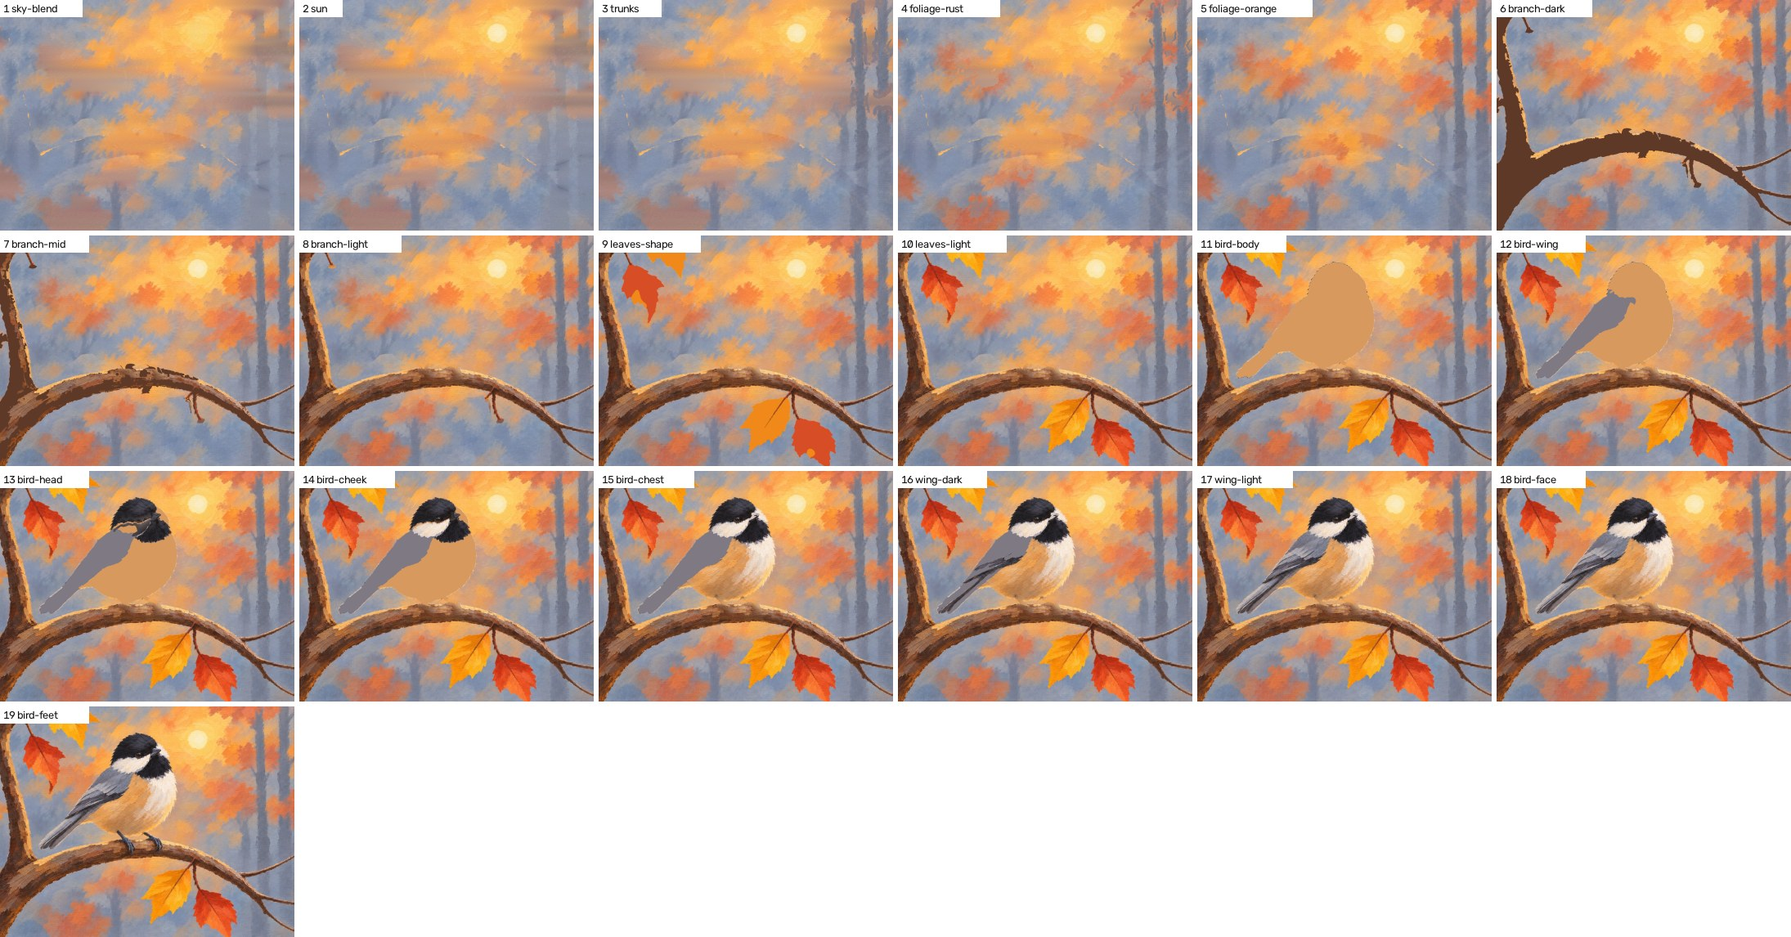
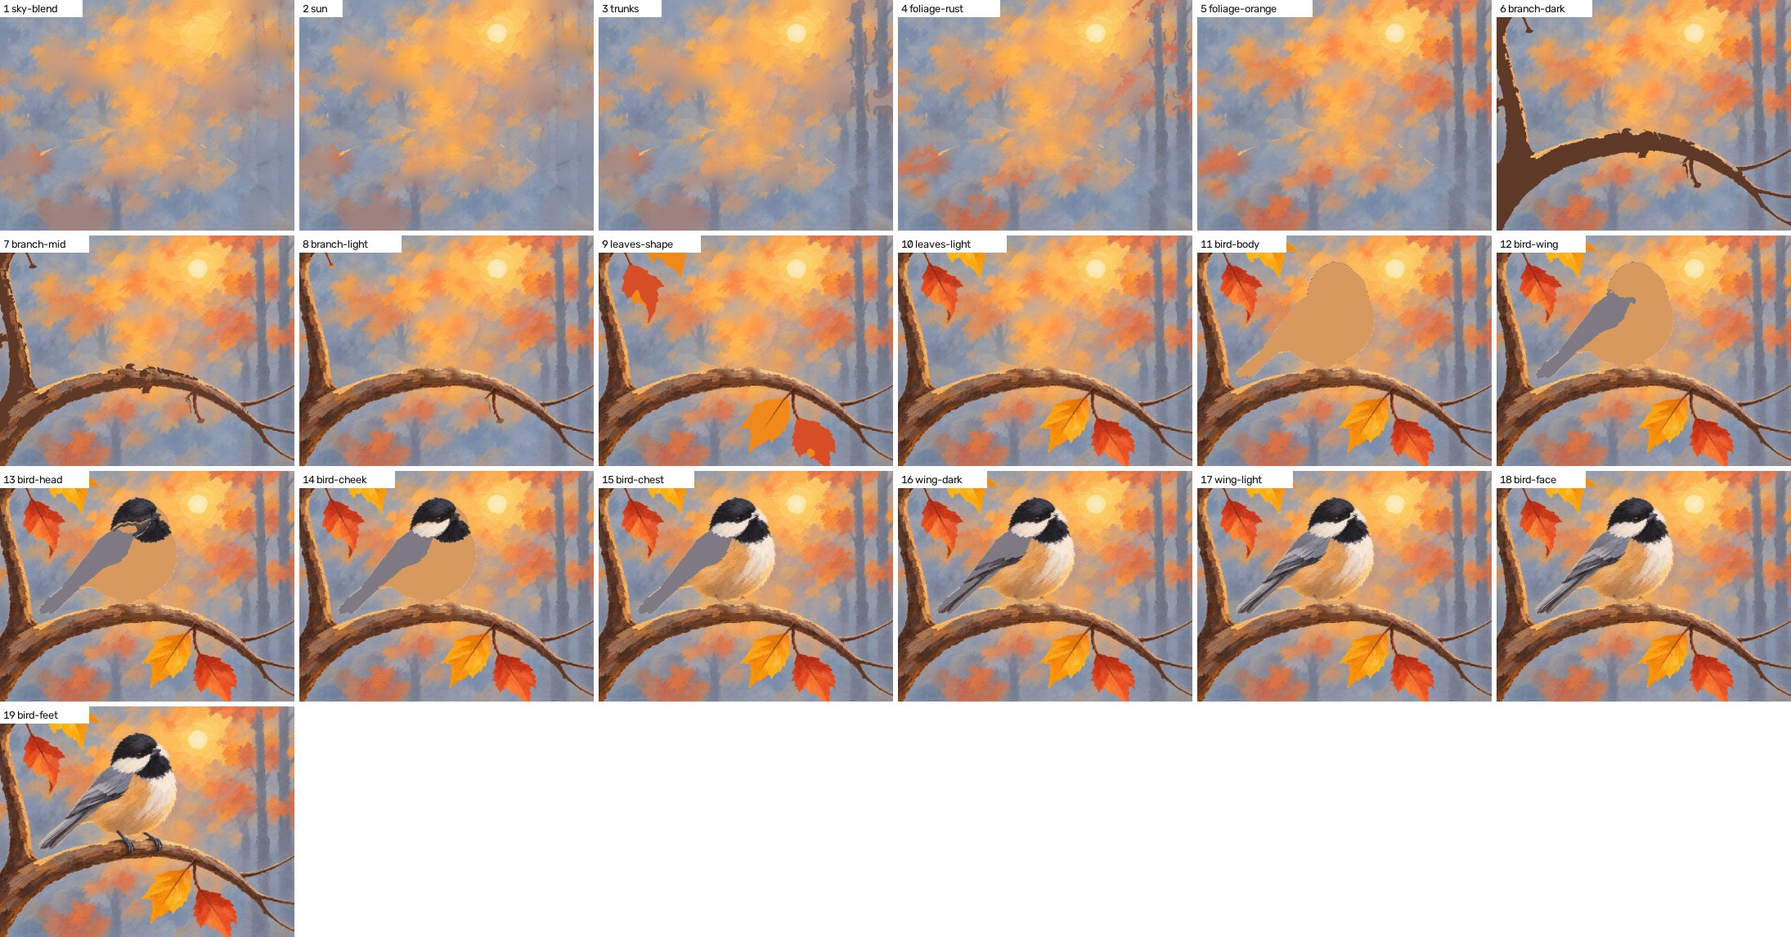
Add the background render for what's behind large objects (pipeline v2, part 2)
One low-quality render of the finish with the objects taken out. Only its
pixels behind the objects are used, so it can't move anything else. Tried
for real on the three fixtures: 2 cents and 13 seconds each, clean on the
chickadee, and no gain where objects are small, so it runs only when
build-steps asks. Carried-on paint under a part's own marks no longer shows
bars.

Refs #64

Claude-Session: https://claude.ai/code/session_017xvRi3b5oo7VFd12D7CGUX

diff --git a/spike/tools.py b/spike/tools.py
@@ -1357,6 +1357,70 @@ def build_steps_tool(a: argparse.Namespace) -> dict:
             "advice": advice, "cost_usd": 0.0}
 
 
+GRAY = (128, 128, 128)  # the bands around a finish that isn't the image model's shape
+
+
+def _to_frame(finish, size: str):
+    """The finish placed in the image model's frame (bands of gray where the shapes differ), and where it sits."""
+    from PIL import Image
+
+    fw, fh = (int(x) for x in size.split("x"))
+    h, w = finish.shape[:2]
+    scale = min(fw / w, fh / h)
+    nw, nh = int(round(w * scale)), int(round(h * scale))
+    x0, y0 = (fw - nw) // 2, (fh - nh) // 2
+    frame = Image.new("RGB", (fw, fh), GRAY)
+    frame.paste(Image.fromarray(finish).resize((nw, nh), Image.LANCZOS), (x0, y0))
+    return frame, (x0, y0, x0 + nw, y0 + nh)
+
+
+def background_tool(a: argparse.Namespace, client=None) -> dict:
+    """PAID, one render: the finish with everything in front taken out, for what's behind the objects."""
+    import build_steps as bs
+    import numpy as np
+    from filters import load
+    from PIL import Image
+
+    lesson = Path(a.lesson)
+    plan, finish = _v2(lesson)
+    owner = _read_owner(lesson, plan)
+    parts = plan["parts"]
+    is_back = bs.back_parts(parts)
+    front = ~is_back[owner]
+    if not front.any():
+        raise Refused("this plan has no objects in front of the background, so there's nothing to take out")
+    out = lesson / "98_background.png"
+    if out.exists() and not a.redo:
+        raise Refused(f"{out.name} already exists. Pass --redo to render it once more.")
+    name = lambda p: p.get("name") or p["id"]  # noqa: E731
+    remove = [name(p) for k, p in enumerate(parts) if not is_back[k] and not p.get("parent")]
+    keep = [name(p) for k, p in enumerate(parts) if is_back[k]]
+    size = size_for(lesson / "99_finish.png")
+    frame, box = _to_frame(finish, size)
+    padded = box != (0, 0) + frame.size
+    (lesson / "trials").mkdir(exist_ok=True)
+    frame_path = lesson / "trials" / "background_in.png"
+    frame.save(frame_path)
+    prompt = ("This is an acrylic painting. Remove these things from it completely: " + "; ".join(remove) + ". "
+              "Where they were, paint what is behind them: continue the background (" + "; ".join(keep) + ") exactly as it "
+              "is around them, in the same colors and the same brushwork. Leave no trace, outline, or shadow of what "
+              "you removed. Change nothing else: everything that stays keeps its exact place, shape, and color. "
+              + ("Keep the plain gray bands at the edges exactly as they are. " if padded else "")
+              + "No text, signature, or watermark.")
+    raw = lesson / "trials" / "background_raw.png"
+    budget = Budget(lesson, a.max_cost, 1)  # one render and at most one redo
+    r = render_one(budget, "background", [frame_path], prompt, raw, a.quality,
+                   "what's behind the objects isn't in the finish, and they cover too much of it for a fill",
+                   size, fresh=a.redo, client=client)
+    got = Image.open(raw).convert("RGB")
+    if got.size != frame.size:
+        got = got.resize(frame.size, Image.LANCZOS)
+    Image.fromarray(np.array(got.crop(box).resize((finish.shape[1], finish.shape[0]), Image.LANCZOS))).save(out)
+    problems, numbers = bs.background_problems(finish, load(out, max_side=100_000), front)
+    return {**r, "out": str(out), "removed": remove, "problems": problems, **numbers,
+            "advice": "Run build-steps again and Read the sheet: no trace of the objects before their own steps."}
+
+
 def add_v2_tools(sub) -> None:
     p = sub.add_parser("outline", help="Free. v2: find every part's exact outline in the finished painting.",
                        description="For a version 2 plan (plan.json with parts). Writes parts/<id>.png, parts/owner.png, and "
@@ -1370,6 +1434,15 @@ def add_v2_tools(sub) -> None:
     p.add_argument("--lesson", required=True)
     p.add_argument("--colors", type=int, default=3, help="colors per part (default 3)")
     p.set_defaults(func=part_colors_tool)
+    p = sub.add_parser("background", help="PAID, one render. v2: the finish with the objects taken out, for what's behind them.",
+                       description="Run when build-steps prints \"needs_background\": true. Writes 98_background.png; "
+                                   "build-steps then uses only its pixels behind the objects, so the render can't move "
+                                   "or recolor anything else. Counted in the lesson's ledger and cached like any render.")
+    p.add_argument("--lesson", required=True)
+    p.add_argument("--quality", choices=QUALITIES, default="low")
+    p.add_argument("--redo", action="store_true", help="render it once more (one redo at most)")
+    p.add_argument("--max-cost", type=float, default=DEFAULT_MAX_COST, help=f"dollar cap per lesson (default {DEFAULT_MAX_COST:.2f})")
+    p.set_defaults(func=background_tool)
     p = sub.add_parser("build-steps", help="Free. v2: cut every step picture from the finished painting.",
                        description="Run after outline. Writes NN_<step id>.png for every step and trials/steps.jpg (all of "
                                    "them on one sheet). Uses 98_background.png (the finish with the objects taken out) for "
@@ -1392,7 +1465,7 @@ def main(argv: list[str] | None = None, client=None) -> int:
     a = build_parser().parse_args(argv)
     started = time.time()
     try:
-        result = a.func(a, client=client) if a.tool in ("render", "render-step", "finish-from-step") else a.func(a)
+        result = a.func(a, client=client) if a.tool in ("render", "render-step", "finish-from-step", "background") else a.func(a)
     except Refused as e:
         emit({"refused": str(e)})
         return 2

diff --git a/spike/build_steps.py b/spike/build_steps.py
@@ -98,6 +98,34 @@ def make_background(finish: np.ndarray, front: np.ndarray, given: np.ndarray | N
     return out
 
 
+CHANGED = 45  # RGB levels a background picture may differ from the finish before a pixel counts as changed
+CHANGED_SHARE = 0.25  # more of the scene changed than this, away from the objects, and the render didn't keep it
+
+
+def background_problems(finish: np.ndarray, background: np.ndarray, front: np.ndarray) -> tuple[list[str], dict]:
+    """Did the background picture keep the scene? Away from the objects it should still be the finish (brushwork
+    aside). Only its pixels behind the objects are ever used, so a changed scene can't spoil a step picture, but it
+    does mean what's behind the objects was painted for a different picture."""
+    if background.shape[:2] != finish.shape[:2]:
+        background = cv2.resize(background, (finish.shape[1], finish.shape[0]), interpolation=cv2.INTER_AREA)
+    away = ~halo(halo(front))
+    a = cv2.GaussianBlur(finish, (0, 0), 4).astype(np.int16)
+    b = cv2.GaussianBlur(background, (0, 0), 4).astype(np.int16)
+    diff = np.abs(a - b).max(2)
+    share = float((diff[away] > CHANGED).mean()) if away.any() else 0.0
+    shift = float(np.abs(a[away].mean(0) - b[away].mean(0)).max()) if away.any() else 0.0
+    left = np.abs(b[front].astype(np.int16) - a[front]).max(1) <= CHANGED / 3 if front.any() else np.array([False])
+    numbers = {"changed_share": round(share, 3), "color_shift": round(shift, 1), "objects_left": round(float(left.mean()), 3)}
+    out = []
+    if share > CHANGED_SHARE:
+        out.append(f"the background picture changed {share:.0%} of the scene away from the objects. Render it once more "
+                   "(--redo); if it still does, delete 98_background.png and keep the free fill.")
+    if left.mean() > 0.5:
+        out.append(f"{left.mean():.0%} of the objects' pixels look the same as in the finish: the render didn't remove "
+                   "them. Render it once more (--redo), naming what to remove more plainly.")
+    return out, numbers
+
+
 def back_owner(parts: list[dict], owner: np.ndarray, background: np.ndarray, front: np.ndarray) -> np.ndarray:
     """Who owns each pixel once the objects are taken out: the parts behind, carried across the gaps the objects
     left, and any marks (clouds, foliage) the background picture shows there."""
@@ -171,8 +199,12 @@ def build(finish: np.ndarray, plan: dict, owner: np.ndarray,
         carried = area[k] & ~mine  # hidden, or under this part's own children
         if carried.any() and mine.any():
             fill = ff.continue_paint(base, mine)
-            if _is_wide(mine):
-                fill = (1 - ROWS) * fill + ROWS * _rows(base, mine)
+            if _is_wide(mine) and hidden.any():
+                # under the next part (a sky below its horizon) a wide part carries on in bands along its rows.
+                # Under its own scattered marks (clouds, foliage) bands show as bars, so there it's filled from
+                # all around instead.
+                rows = (1 - ROWS) * fill + ROWS * _rows(base, mine)
+                fill = np.where(hidden[..., None], rows, fill)
             fill = fill + borrowed_texture(base, mine, carried)
             c[carried] = np.clip(fill, 0, 255).astype(np.uint8)[carried]
         content[k] = c

diff --git a/spike/tests/test_pipeline_v2.py b/spike/tests/test_pipeline_v2.py
@@ -265,5 +265,62 @@ class ToolTests(unittest.TestCase):
             self.assertIn("run outline", self.run_tool("build-steps", "--lesson", str(lesson))["refused"])
 
 
+class BackgroundTests(unittest.TestCase):
+    def setUp(self):
+        sys.path.insert(0, str(Path(__file__).resolve().parent))
+        from test_render import FakeClient
+
+        self.tmp = tempfile.TemporaryDirectory()
+        self.cache, tools.CACHE_DIR = tools.CACHE_DIR, Path(self.tmp.name) / "cache"
+        self.client = FakeClient()
+        finish, plan, owner = fixture("red-sailboat")
+        self.lesson = Path(self.tmp.name) / "lesson"
+        (self.lesson / "parts").mkdir(parents=True)
+        (self.lesson / "plan.json").write_text(json.dumps(plan), encoding="utf-8")
+        Image.fromarray(finish).save(self.lesson / "99_finish.png")
+        Image.fromarray(owner.astype(np.uint8)).save(self.lesson / "parts" / "owner.png")
+
+    def tearDown(self):
+        tools.CACHE_DIR = self.cache
+        self.tmp.cleanup()
+
+    def run_tool(self, *argv) -> dict:
+        import contextlib
+        import io
+
+        out = io.StringIO()
+        with contextlib.redirect_stdout(out), contextlib.redirect_stderr(io.StringIO()):
+            tools.main(list(argv), client=self.client)
+        return json.loads(out.getvalue().strip().splitlines()[-1])
+
+    def test_one_render_names_what_to_remove_and_is_counted(self):
+        r = self.run_tool("background", "--lesson", str(self.lesson))
+        self.assertEqual(self.client.images.calls, 1)
+        self.assertGreater(r["cost_usd"], 0)
+        self.assertEqual(r["removed"], ["The sail", "The hull", "The mast", "The reflection"])
+        with Image.open(self.lesson / "98_background.png") as got, Image.open(self.lesson / "99_finish.png") as finish:
+            self.assertEqual(got.size, finish.size)  # back at the finish's own size
+
+    def test_a_second_render_needs_redo_and_only_one_redo_is_allowed(self):
+        self.run_tool("background", "--lesson", str(self.lesson))
+        self.assertIn("--redo", self.run_tool("background", "--lesson", str(self.lesson))["refused"])
+        self.run_tool("background", "--lesson", str(self.lesson), "--redo")
+        self.assertEqual(self.client.images.calls, 2)
+        self.assertIn("refused", self.run_tool("background", "--lesson", str(self.lesson), "--redo"))
+        self.assertEqual(self.client.images.calls, 2)
+
+    def test_a_render_that_changed_the_scene_or_left_the_objects_is_reported(self):
+        img, parts, given = scene()
+        _, owner, _ = ol.outline(img, parts, given=given)
+        front = owner == 3
+        same, numbers = bs.background_problems(img, img.copy(), front)
+        self.assertIn("didn't remove", " ".join(same))  # the ball is still there
+        cleared = img.copy()
+        cleared[front] = (110, 150, 220)
+        self.assertEqual(bs.background_problems(img, cleared, front)[0], [])
+        other = np.full_like(img, 30)
+        self.assertIn("changed", " ".join(bs.background_problems(img, other, front)[0]))
+
+
 if __name__ == "__main__":
     unittest.main()

diff --git a/docs/design/pipeline-v2.md b/docs/design/pipeline-v2.md
@@ -46,7 +46,6 @@ the chickadee, every step is cut from the finish with no renders, in about 20 se
 The chickadee's bird is 9 small steps where v1 had 3.
 
 **Not known yet:**
-- whether one "background" render cleanly gives what's behind large objects (section 7). A stand-in worked;
 - whether Claude writes good parts (boxes, points) inside the skill in 2 rounds. They were hand-tuned in the spike;
 - how a real run's finish behaves (a larger PNG in the image model's frame, sometimes with gray bands);
 - whether the full run meets the cost and time targets (section 14).
@@ -248,25 +247,26 @@ that sky. Three cases:
    along each row so a horizon carries straight on. An object's soft rim (0.8% of the long side) is cleared with
    it and comes back when the object is painted. Built; can't be seen on the sailboat or the lavender (objects are
    8% of each picture).
-3. **Behind objects, when they're big** (33% on the chickadee): the fill is streaky. `build-steps` reports
+3. **Behind objects, when they're big** (33% on the chickadee): the fill is soft and patchy. `build-steps` reports
    `objects_share` and asks for a background picture above 15% (`NEEDS_BACKGROUND`; a number between the two
    cases seen, to be tuned).
 
-**The background picture** (`98_background.png`; the tool `background` that renders it is *not built*: issue 2
-of 8). One render:
-the finish as input, the prompt "Remove \<the parts in front, by name\>. Paint what is behind them, continuing
-\<the parts behind\> exactly as they are around them. Change nothing else.", low quality. `build-steps` already
-uses the file when it's there (`build_steps.make_background`): only its pixels inside the objects' outlines and
-rims are taken, matched to the color around the hole, so the render can't move or recolor anything else. Marks
-that the render shows behind an object (foliage behind the bird) are found there by the same color rule.
+**The background picture** (`98_background.png`, tool `background`, built: issue 2 of 8). One low-quality render
+of the finish with everything in front removed. The tool writes the prompt from the plan (the names of the front
+parts to remove and the back parts to continue), puts the finish in the image model's frame with gray bands when
+their shapes differ and crops the answer back, and records the render in the ledger like any other.
+`build-steps` uses the file when it's there (`build_steps.make_background`): only its pixels inside the objects'
+outlines and rims are taken, matched to the color around the hole, so the render can't move or recolor anything
+else. Marks the render shows behind an object (foliage behind the bird) are found there by the same color rule.
 
-Limits: one background render per lesson, a second only if the first fails its check. The v2 skill passes
-`--max-cost 0.40` to every render (the default stays $1.00 for v1).
+Tried on the three fixtures (`docs/spikes/outlines.md`): $0.018 and 13 seconds each; clean on the chickadee; no
+visible gain on the two pictures where objects are 7 to 8% of the picture. So it's run only when `build-steps`
+prints `"needs_background": true`.
 
-The render comes back at the image model's frame size. A real run's finish is already that size. The fixtures
-aren't (1000 x 786), so a fixture has to be padded to the frame before a background render and cropped back
-after; `make_background` resizes a mismatched picture without keeping its shape, which is only right when the
-shapes already match.
+`build_steps.background_problems` checks the render: it reports when more than 25% of the scene away from the
+objects changed (the three real renders changed 0.0 to 0.3%), or when the objects are still there. One redo at
+most (`--redo`); if that fails too, delete the file and keep the free fill, and record it as `left`. The v2 skill
+passes `--max-cost 0.40` to every render (the default stays $1.00 for v1).
 
 What's behind a thing is only on screen until the thing is painted. The bar is "doesn't look wrong".
 
@@ -493,7 +493,7 @@ One issue per row, in this order. Don't start one before the ones it needs are c
 | | Issue | Needs | Who |
 |---|---|---|---|
 | 1 | Outlines and step pictures from them (#62) | | **done**, 2026-11-12 |
-| 2 | The background picture: one render for what's behind large objects (#64) | 1 | needs an OpenAI key |
+| 2 | The background picture: one render for what's behind large objects (#64) | 1 | **done**, 2026-11-12 |
 | 3 | Version 2 lessons through `publish`, the history, and the page (#65) | 1 | |
 | 4 | Paints measured from the finish, with a limit on mixes (#66) | 1 | |
 | 5 | Stroke cards and basics cards (#67) | | the owner checks the cards |
@@ -556,7 +556,7 @@ pasted only inside its part. If it fails more widely: stop and report to the own
 
 | Risk | What limits it |
 |---|---|
-| The background render doesn't come back clean, or changes the scene's colors. | Only its pixels behind the objects are used, color-matched. If it still shows, the free fill stays and the lesson says so under Known problems. |
+| The background render doesn't come back clean on some picture (it did on all three tried). | Only its pixels behind the objects are used, color-matched, and it's checked. If it still shows, the free fill stays and the lesson says so under Known problems. |
 | Claude's parts need more than 2 rounds. | Tools are free and take seconds, and the fix table in section 6 covers what went wrong in the spike. Issue 8 measures it. |
 | A pass by nearest paint doesn't match how the area is really painted. | Splitting and reordering passes is free; the text review's `wrong_result` and `flat` kinds still catch it. |
 | The finish is more detailed than a beginner can paint, and v2 copies it faithfully. | Unchanged from v1: the beginner version and `detail_budget`. Not made worse. |

diff --git a/docs/spikes/outlines.md b/docs/spikes/outlines.md
@@ -6,7 +6,8 @@ tools, and `spike/tests/test_pipeline_v2.py`. The design they belong to is `docs
 
 **Answer: go.** With an outline per part, every step of all three test lessons is cut from the one finished
 painting. No step is rendered, nothing drifts, and a step can be as small as one move. One limit was found and
-it has a known fix: when objects cover a lot of the picture, what's behind them needs one render (below).
+it has a fix that has now been tried: when objects cover a lot of the picture, what's behind them takes one
+2-cent render (below).
 
 ## What was tested
 
@@ -18,14 +19,14 @@ picture, and small steps. No image model was called.
 |---|---|---|---|---|---|---|
 | Red sailboat | 9 | 14 | 10 | 10 s | 5 s | 0 |
 | Lavender balloon | 10 | 19 | 12 | 12 s | 7 s | 0 |
-| Chickadee | 12 | 19 | 11 | 11 s | 8 s | 0 (wants 1, see below) |
+| Chickadee | 12 | 19 | 11 | 11 s | 8 s | 1 ($0.018), for the background |
 
 Times are on 4 CPU cores. v1 spent 13 to 21 renders and 4 to 7 render minutes on the same pictures.
 
 ## The pictures
 
 **Red sailboat.** Clean from step 3 on. (Steps 1 and 2 show a faint shape where the hill will go and a dark band
-along the sky's bottom edge: the sky carried under the hill, section 7 case 1.) The boat, the mast, and the reflection are each built in their own
+along the sky's bottom edge: the sky carried under the hill.) The boat, the mast, and the reflection are each built in their own
 small steps. What's behind the boat is a free fill, and it can't be seen.
 
 ![Red sailboat, 14 steps](outlines-red-sailboat.jpg)
@@ -42,16 +43,24 @@ couldn't outline) is clean.
 
 ![Chickadee, 19 steps, free fill](outlines-chickadee.jpg)
 
-Steps 1 to 5 show the limit. The bird, branch, and leaves cover 33% of this picture, and the free fill for what's
-behind them is streaky. The same lesson with a picture of the background supplied (here a stand-in: step 4 of the
-v1 lesson, which was a render of exactly that) is right behind the objects:
+Those steps are the free fill, and they show its limit: the bird, branch, and leaves cover 33% of this picture.
+(This sheet is from after the fill was improved; the first try was streaky.) With one render of the background,
+the finish with those three taken out, what's behind them is real paint:
 
-![Chickadee, 19 steps, with a background picture](outlines-chickadee-background.jpg)
+![Chickadee, 19 steps, with the background render](outlines-chickadee-background.jpg)
 
-The stand-in wasn't made for this, so its seams show faintly in steps 1 to 3. Those steps also show soft bars
-at the top where the sky is carried under the foliage and trunks; a background picture doesn't change that. A render asked for directly ("the
-finish with the bird, branch, and leaves removed") hasn't been tried: there was no API key in this session. That
-is the next issue (pipeline v2, 2 of 8).
+**The background render, tried for real** (`background` tool, #64, 2026-11-12). One low-quality render per picture:
+
+| Lesson | Objects' share | Cost | Time | Away from the objects, changed | Result |
+|---|---|---|---|---|---|
+| Chickadee | 33% | $0.018 | 13 s | 0.3% | Clean. No trace of the bird, branch, or leaves in steps 1 to 5 |
+| Lavender balloon | 7% | $0.018 | about 13 s | 0.0% | No visible difference from the free fill |
+| Red sailboat | 8% | $0.018 | about 13 s | 0.0% | No visible difference from the free fill |
+
+So the render is worth its 2 cents only when objects are big, and `NEEDS_BACKGROUND` stays at 15%, between the
+cases seen. The image model kept the rest of the scene almost exactly each time, and only its pixels behind the
+objects are used anyway. The fixtures aren't the image model's shape, so the tool puts the finish in the model's
+frame with gray bands and crops the answer back; that worked with no extra prompt trouble.
 
 The outlines themselves, one tint per part:
 [sailboat](outlines-red-sailboat-parts.jpg), [lavender](outlines-lavender-balloon-parts.jpg),
@@ -95,13 +104,12 @@ machine. Across machines this isn't promised (the model's arithmetic can differ 
 
 ## What isn't done or isn't known
 
-- The background render (above). Until it's tried, "one render fixes the chickadee" is expected, not shown.
 - These pictures are 1000 x 786 JPEGs already cropped to the canvas. A real run's finish is a larger PNG in the
   image model's frame, sometimes with gray bands. Sizes in the code are shares of the picture, but that case
   hasn't been run.
 - The parts, boxes, and points were written by hand, with the pictures on screen and a few tries each (the
   chickadee took three rounds). Whether Claude does this well inside the skill, in at most 2 rounds, is for the
   last issue's hands-off runs to show.
-- A wet blend with a lot painted on it (the lavender's sky is half cloud) shows soft bars in its first step where
-  the sky was carried under the clouds. It reads as a blended sky, and it's gone a step later.
+- A wet blend with a lot painted on it (the lavender's sky is half cloud) is soft and a little blurred in its
+  first step where the sky was carried under the clouds. It reads as a blended sky, and it's gone a step later.
 - `publish`, the lesson page, and the history don't read version 2 plans yet.
